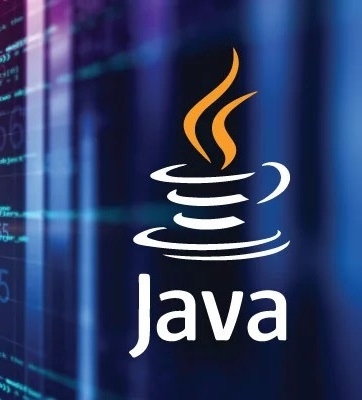
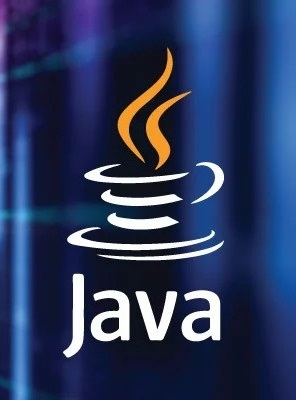
index page completed with the meedia query

diff --git a/styles/index-main.css b/styles/index-main.css
@@ -7,13 +7,18 @@
     flex-direction: column;
     justify-content: center;
     align-items: center;
+    background-image: url("../images/background2.jpg");
+    background-size: cover;
+    background-repeat: no-repeat;
+    background-position: center;
+    margin: 1rem;
+    border-radius: 20px;
 }
 
 .presentation-body {
     display: flex;
     flex-direction: column;
     align-items: center;
-    width: 90%;
     background: var(--background-color);
     margin: 2rem 1.5rem 1.5rem 1.5rem;
     padding: 0 2rem;
@@ -29,9 +34,8 @@
 }
 
 .presentation {
-    width: 80%;
-    height: 60%;
-    background: #fff;
+    width: 100%;
+    background: var(--background-color);
     border-radius: 30px;
     border: 3px double black;
     margin: 2rem;
@@ -45,22 +49,24 @@
 }
 
 .photo-id {
-    height: 120px;
-    width: 120px;
+    height: 170px;
+    width: 170px;
     display: flex;
     justify-content: center;
     align-items: center;
-    border: 3px double black;
-    background-color: white;
+    border: 3px solid black;
+    background-image: url("../images/id-background3.jpg");
+    background-position: center;
+    /* background-color: var(--background-color); */
     border-radius: 20px;
-    margin-top: 1rem;
-    transform: rotate(30deg);
+    margin-top: 2rem;
+    transform: rotate(45deg);
 }
 
 .photo-id img {
-    width:100px;
-    border-radius: 50%;
-    transform: rotate(-30deg);
+    width:150px;
+    border-radius: 22% 78% 50% 50% / 39% 76% 24% 61%;
+    transform: rotate(-45deg);
 }
 
 .presentation-body button {
@@ -83,16 +89,25 @@
 @media screen and (width > 600px) {
     .introduction {
         flex-direction: row;
-        justify-content: flex-start;
-        margin-left: 4rem;
+        justify-content: space-around;
+        align-items: center;
+        flex-wrap: wrap;
+        margin: 5rem;
     }
 
     .photo-id {
-        width: 250px;
-        height: 230px;
+        width: 300px;
+        height: 300px;
+        margin-top: 4rem;
     }
 
     .photo-id img {
-        width: 160px;
+        width: 250px;
+    }
+
+    .presentation-body {
+        padding-top: 5rem;
+        margin-top: 5rem;
+        width: 700px;
     }
 }

diff --git a/styles/index.css b/styles/index.css
@@ -40,7 +40,7 @@ header {
 
 .main-title {
     font-size: large;
-    padding-top: 0.5rem;
+    /* padding-top: 0.5rem; */
 }
 
 .name {
@@ -56,7 +56,7 @@ nav {
     border-radius: 20px;
     font-size: 17px;
     box-shadow: 10px 10px 50px var(--foreground-color);
-
+    margin-left: 0.5rem;
 }
 
     nav a {
@@ -67,6 +67,7 @@ nav {
         text-decoration: none;
         padding: 8px 16px;
         border-radius: 22px;
+        height: 4rem;
     }
 
     nav a:hover {
